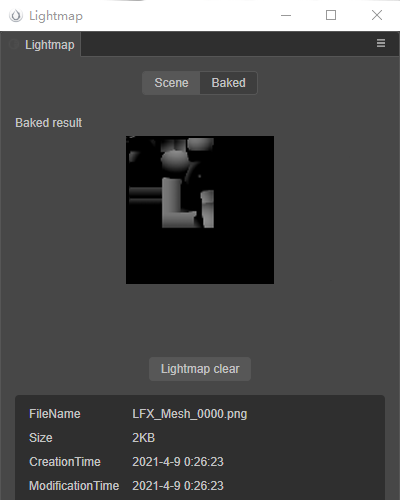
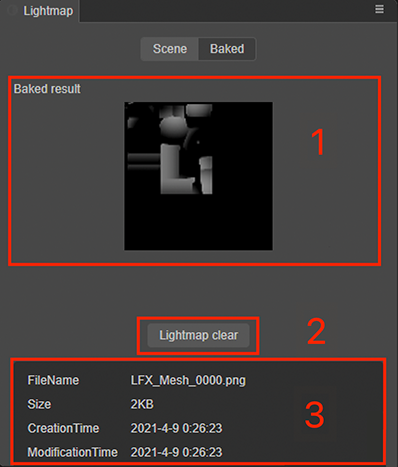
fix issues

diff --git a/zh/concepts/scene/light/lightmap.md b/zh/concepts/scene/light/lightmap.md
@@ -6,11 +6,18 @@
 
 ## 光照贴图面板
 
-点击编辑器菜单栏的 **项目 -> 光照贴图**，打开光照贴图面板。烘焙系统生成光照贴图过程中，将根据面板设置的各参数，计算并生成结果。
+点击编辑器菜单栏的 **项目 -> 光照贴图**，打开光照贴图面板。面板由 **Scene** 和 **Baked** 两个页面组成
 
 ![bake result](./img/lightmap_param.png)
 
+- **Scene**：主要用于配置生成光照贴图相关的参数。
+- **Baked**：主要用于展示生成的光照贴图及其相关信息。
+
+具体内容请查看下方 **生成光照贴图** 部分的内容。
+
 ### 属性说明
+
+**Scene** 页面各参数的说明如下：
 
 | 参数 | 说明 |
 | :--- | :--- |
@@ -38,31 +45,32 @@
 	
 	![model lighting map settings](./img/lightmap_model_settings.png)
 	
-	- **Bakeable**：是否烘焙静态光照
-	- **CastShadow**：是否投射静态阴影
-	- **RecieveShadow**：是否接受静态阴影
-	- **LightMapSize**：模型光照贴图尺寸
+    - **Bakeable**：是否烘焙静态光照
+    - **CastShadow**：是否投射静态阴影
+    - **RecieveShadow**：是否接受静态阴影
+    - **LightMapSize**：模型光照贴图尺寸
 
-    > 注意：要生成光照贴图的模型有以下两点要求：
+
+    > **注意**：要生成光照贴图的模型有以下两点要求：
     > 
     > 1. 美术人员在制作模型资源时，除了模型本身的 UV，还需要另外包含一套 UV，用于光照贴图。
     > 
-    > 2. 模型的 Materials 需要开启 **USE LIGHTMAP** 渲染选项，例如：
+	> 2. 模型的 Materials 需要开启 **USE LIGHTMAP** 渲染选项，例如：
     > 
-    > ![materials use lightmap](./img/lightmap_materials_use.png)
+    >     ![materials use lightmap](./img/lightmap_materials_use.png)
 
 3. 打开 **光照贴图** 面板，并设置好对应参数。然后点击 **生成光照贴图** 按钮，会弹出一个文件存储对话框，需要指定一个文件夹（必须在 `assets` 目录下）用于存放生成的光照贴图数据信息。
    
-    ![bake result](./img/lightmap_param.png)
+    ![bake param](./img/lightmap_param.png)
    
     即可看到在 **光照贴图** 面板下方输出了烘焙进度的日志信息。
 
 	![](./img/lightmap_generate_log.png)
 
-4. 烘焙结束后可在 **光照贴图** 面板的 **Baked** 页面查看生成的光照贴图，以及文件名、尺寸等相关信息。生成的光照贴图将由游戏引擎处理使用，无需用户操作。
+4. 烘焙结束后可在 **光照贴图** 面板的 **Baked** 页面查看生成的光照贴图，以及文件名、尺寸等相关信息。生成的光照贴图将由游戏引擎处理使用，无需开发者手动操作。
 
     ![bake result](./img/lightmap_result.png)
 
-	- **烘焙结果**：显示烘焙后生成的光照贴图。
-	- **清空光照贴图**：用于删除生成的光照贴图。
-	- **信息输出面板**：显示生成的光照贴图的文件名、大小等相关信息。
+    1. **烘焙结果**，显示烘焙后生成的光照贴图。
+    2. **清空光照贴图**，用于删除生成的光照贴图及相关信息。
+    3. **信息输出面板**，显示生成的光照贴图的文件名、大小等相关信息。
